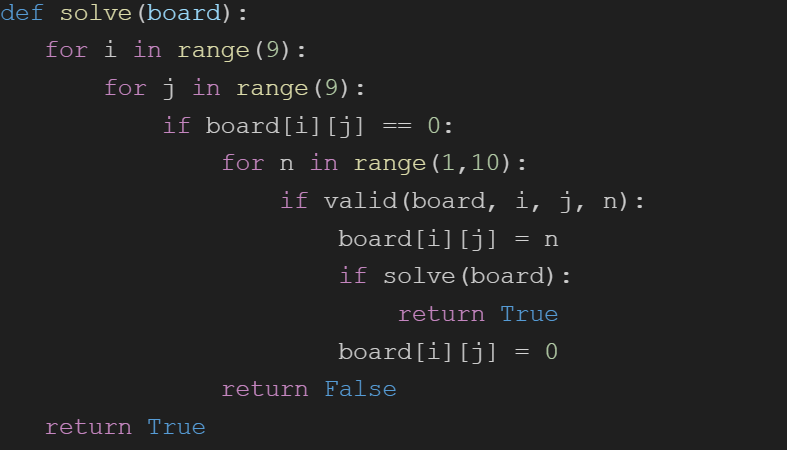
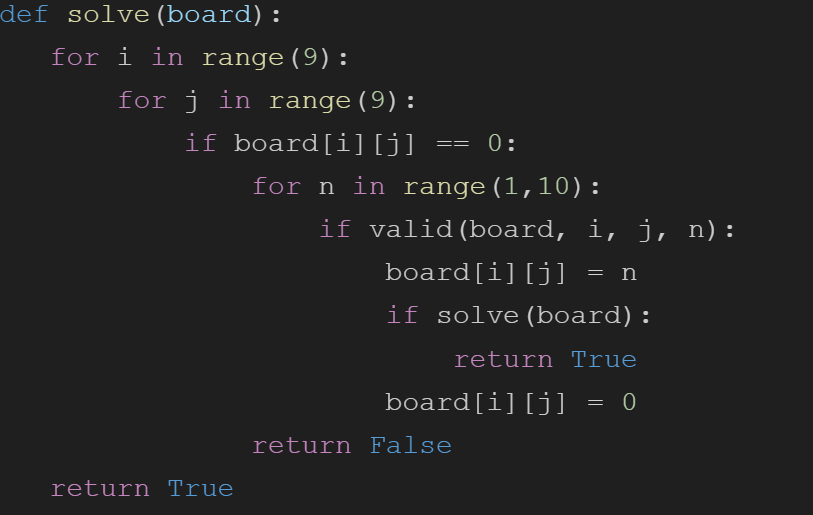
new project

diff --git a/docs/sites/portfolio.html b/docs/sites/portfolio.html
@@ -45,7 +45,7 @@
                 <div class="swiper-pagination"></div>
             </div>
             <h1>Flashmind</h1>
-            <p>Plataforma interactiva de aprendizaje que ofrece cursos personalizables y fomenta la adquisición de conocimientos mediante retos y desafíos diseñados para reforzar el progreso del usuario.</p>
+            <p>An interactive learning platform that offers customizable courses and promotes knowledge acquisition through challenges and activities designed to reinforce user progress</p>
         </div>
         <div id="appchat" class="project-slide">
             <div class="swiper mySwiper">
@@ -62,26 +62,29 @@
                 <div class="swiper-pagination"></div>
             </div>
             <h1>AppChat</h1>
-            <p>Aplicación de mensajería que permite a los usuarios comunicarse en tiempo real mediante una interfaz intuitiva, facilitando el intercambio de mensajes y la interacción entre usuarios.</p>
+            <p>A messaging application that allows users to communicate in real time through an intuitive interface, facilitating message exchange and interaction between users.</p>
         </div>
-        <div id="crossy" class="project-slide">
+        <div id="sbr" class="project-slide">
             <div class="swiper mySwiper">
                 <div class="swiper-wrapper">
                     <div class="swiper-slide">
-                        <img src="../images/crossyroad.png" alt="">
+                        <img src="../images/sbr.png" alt="">
                     </div>
                     <div class="swiper-slide">
-                        <video autoplay loop muted playsinline>
-                            <source src="../images/crossyroad.mp4" type="video/mp4" />
-                        </video>
+                        <img src="../images/sbr-2.png" alt="">
                     </div>
                 </div>
                 <div class="swiper-button-next"></div>
                 <div class="swiper-button-prev"></div>
                 <div class="swiper-pagination"></div>
             </div>
-            <h1>Endless Crossing</h1>
-            <p>Juego 3D inspirado en el clásico Crossy Road</p>
+            <h1>Rule-Based Inference System with Certainty Factors</h1>
+            <p>A rule-based inference system that derives conclusions from a knowledge base and a set of initial facts.</p>
+            <div>
+                <ul class="cv">
+                    <a href="https://github.com/agarcam/SBR-FC" class="btn-1">View Code</a>
+                </ul>
+            </div>
         </div>
         <div id="war" class="project-slide">
             <div class="swiper mySwiper">
@@ -98,7 +101,7 @@
                 <div class="swiper-pagination"></div>
             </div>
             <h1>War Game</h1>
-            <p>Videojuego táctico de combate en el que agentes inteligentes ejecutan las órdenes del usuario, coordinando sus acciones para desarrollar estrategias y afrontar los enfrentamientos.</p>
+            <p>A tactical combat video game in which intelligent agents execute user commands, coordinating their actions to develop strategies and engage in combat encounters.</p>
         </div>
         <div id="traffic" class="project-slide">
             <div class="swiper mySwiper">
@@ -115,16 +118,13 @@
                 <div class="swiper-pagination"></div>
             </div>
             <h1>Traffic detector</h1>
-            <p>Desarrollo de un sistema de visión artificial para la detección y el conteo de vehículos en tiempo real, diferenciando ambos sentidos de circulación. Implementado con OpenCV mediante sustracción de fondo MOG2, operaciones morfológicas y regiones de interés (ROI).</p>
+            <p>Development of a computer vision system for real-time vehicle detection and counting, distinguishing between both directions of traffic. Implemented using OpenCV with MOG2 background subtraction, morphological operations, and regions of interest (ROI).</p>
         </div>
         <div id="sudoku" class="project-slide">
             <div class="swiper mySwiper">
                 <div class="swiper-wrapper">
                     <div class="swiper-slide">
                         <img src="../images/sudoku-solver-2.png" alt="">
-                    </div>
-                    <div class="swiper-slide">
-                        <img src="../images/sudoku-solver.png" alt="">
                     </div>
                     <div class="swiper-slide">
                         <img src="../images/sudoku-solver-3.png" alt="">
@@ -135,7 +135,7 @@
                 <div class="swiper-pagination"></div>
             </div>
             <h1>Sudoku solver</h1>
-            <p>Desarrollo de un sistema de Realidad Aumentada capaz de detectar y resolver sudokus en tiempo real, superponiendo la solución sobre el tablero original. Implementado con OpenCV, técnicas de visión artificial, corrección de perspectiva mediante homografías y un algoritmo de backtracking.</p>
+            <p>Development of an Augmented Reality system capable of detecting and solving Sudoku puzzles in real time, overlaying the solution onto the original board. Implemented using OpenCV, computer vision techniques, perspective correction through homography transformations, and a backtracking algorithm.</p>
         </div>
         <div class="project-slide">
             <div class="swiper mySwiper">
@@ -160,7 +160,7 @@
                 <div class="swiper-pagination"></div>
             </div>
             <h1>FNAF</h1>
-            <p>Videojuego inspirado en Five Nights at Freddy’s, desarrollado en Unreal Engine mediante Blueprints e incorporando agentes inteligentes para gestionar el comportamiento de los personajes.</p>
+            <p>A video game inspired by Five Nights at Freddy’s, developed in Unreal Engine using Blueprints and incorporating intelligent agents to manage character behavior.</p>
         </div>
     </section>
 

diff --git a/docs/sites/style-portfolio.css b/docs/sites/style-portfolio.css
@@ -83,6 +83,24 @@ body{
     background-color: #500000;
 }
 
+.btn-1{
+    display: inline-block;
+    background: #810000;
+    color: #DFDDE0;
+    font-size: 14px;
+    font-weight: 500;
+    padding: 10px 30px;   /*separación entre elementos de lista*/
+    border-radius: 30px;  /*redondear los bordes del boton*/
+    text-transform: uppercase;   /*para que el texto del botón esté en mayúsculas*/
+    box-shadow: 0 0 10px #810000, inset 0 0 5px #810000;
+    margin-left: 5%;
+    margin-top: 2%;
+}
+
+.btn-1:hover{
+    background-color: #500000;
+}
+
 /* -------- PROJECTS -------- */
 .projects{
     max-width: 1000px;
@@ -124,6 +142,7 @@ body{
 .project-slide h1, .project-slide p{
     padding: 0 50px;
 }
+
 
 /* -------- SWIPER -------- */
 .swiper-button-next, .swiper-button-prev{

diff --git a/docs/index.html b/docs/index.html
@@ -175,10 +175,10 @@
                     </div>
                 </div>
                 <div class="projects-slide">
-                    <img src="images/crossyroad.png" alt="Project 3">
+                    <img src="images/sbr.png" alt="Project 3">
                     <div class="project-card">
-                        <h3>3D mobile game</h3>
-                        <a href="sites/portfolio.html" class="btn-2">View Project</a>
+                        <h3>Rule-Based Inference System with Certainty Factors</h3>
+                        <a href="sites/portfolio.html#sbr" class="btn-2">View Project</a>
                     </div>
                 </div>
             </div>
